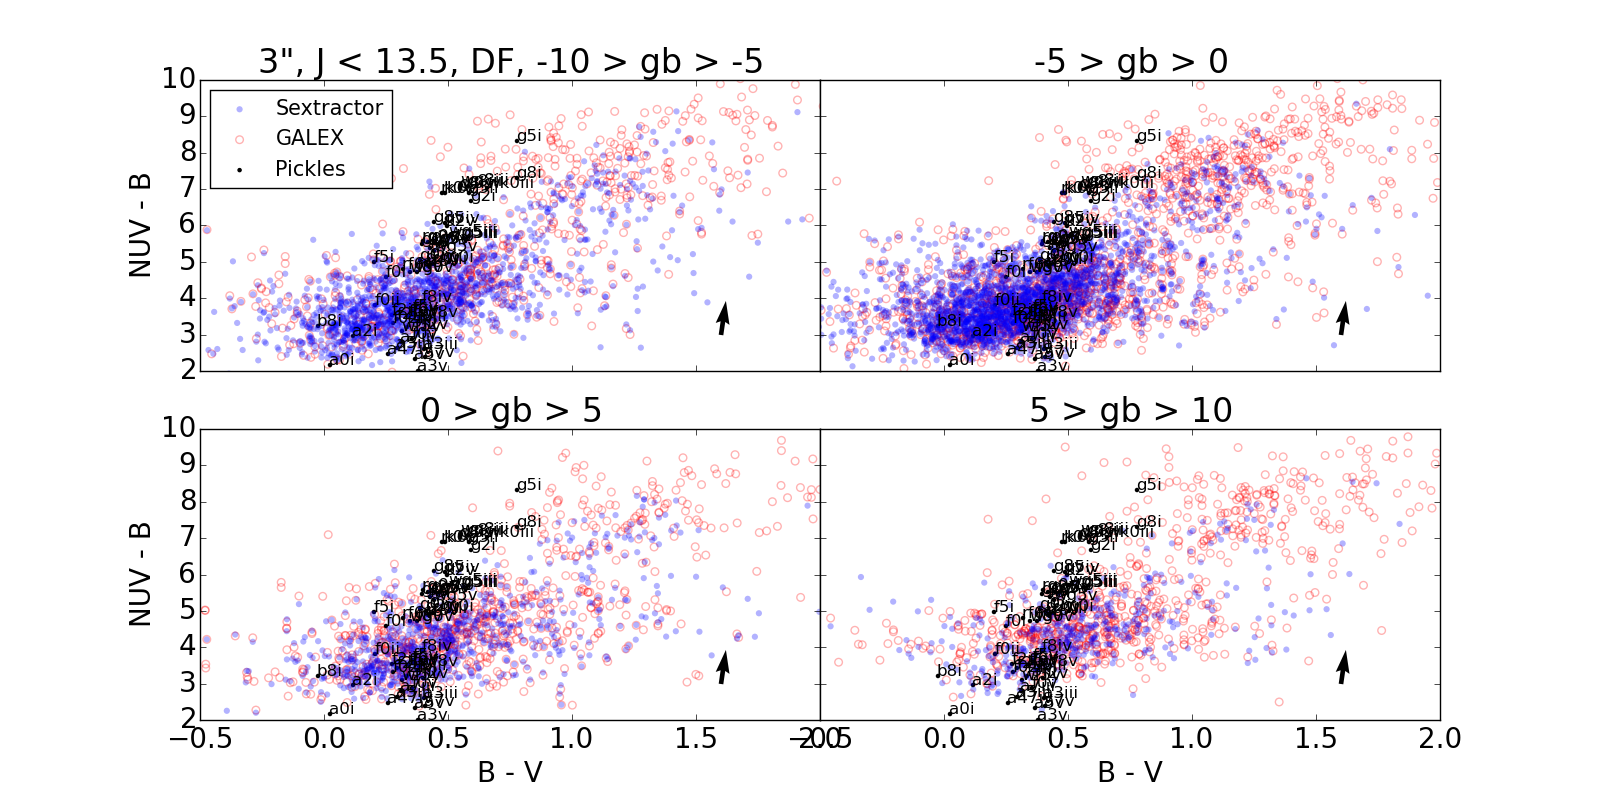
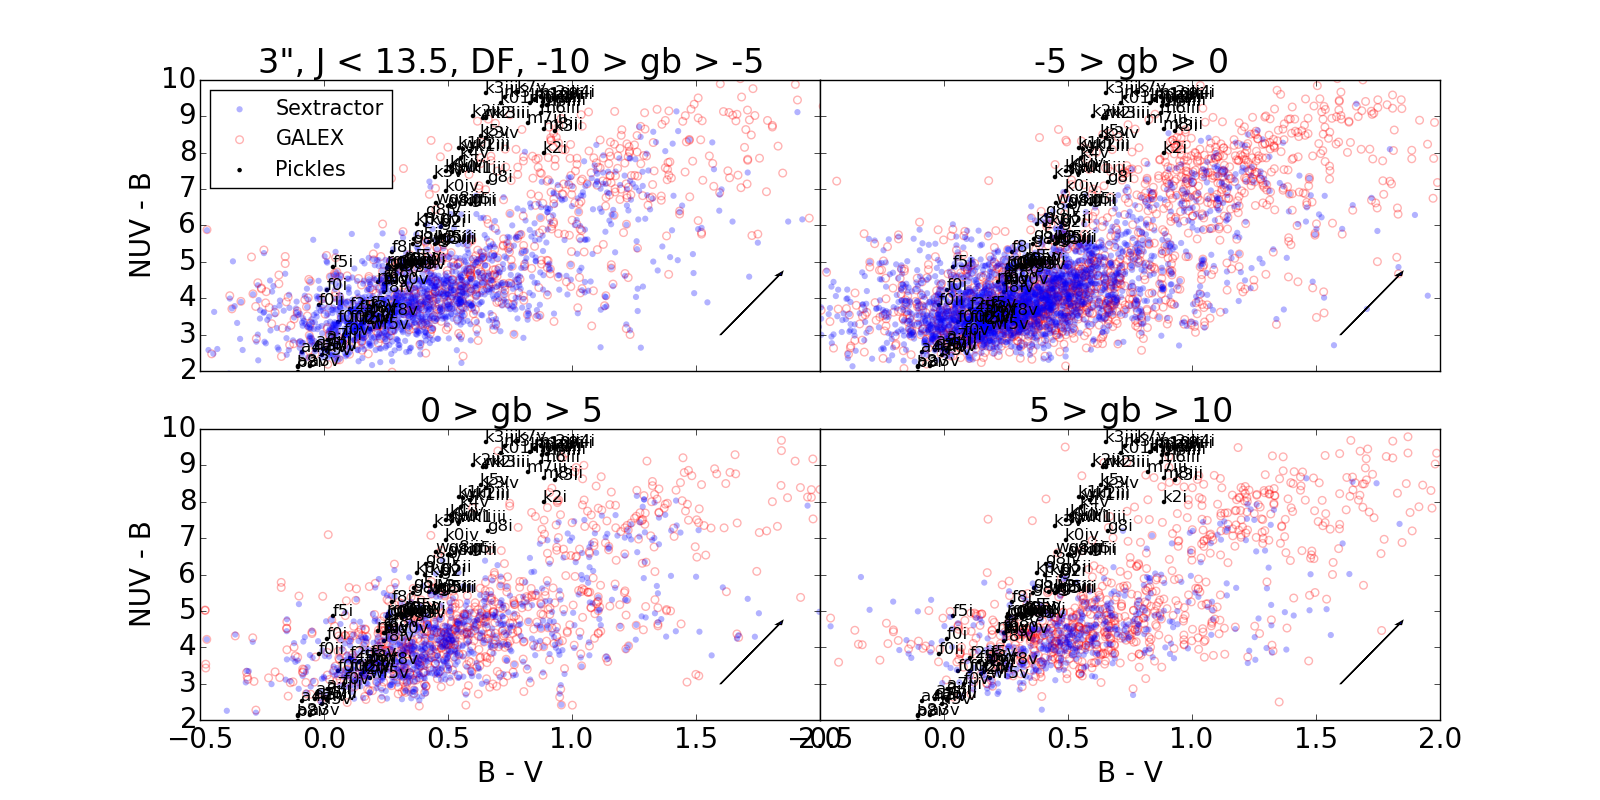
Fixed PICKLES SED points

diff --git a/pipeline/ccplot.py b/pipeline/ccplot.py
@@ -1,9 +1,16 @@
+import numpy as np
+from astropy.table import Table
+from matplotlib import pyplot as plt
+import matplotlib
+matplotlib.rcParams['figure.figsize'] = 16, 8
+matplotlib.rcParams['font.size'] = 20
+
 nuvjvsjk = 0
 nuvbvsbv = 1
 
-star = Table.read('newfield_2mass_t2_jlim_13.5_3arcsec.txt',format='ascii')
+star = Table.read('newfield_2mass_t2_jlim_13.5_3arcsec.txt', format='ascii')
 newt = Table.read('galex0data_2mass_t2.txt', format='ascii')
-pickles = Table.read('picklemags.txt', format='ascii')
+pickles = Table.read('picklemags_laphare.txt', format='ascii')
 
 star['nuv'] = star['nuv'] - 0.5
 
@@ -19,15 +26,15 @@ ncut4 = np.where((newt['gb_galex'] > 5) & (newt['gb_galex'] < 10))
 
 # Open Figure
 f, ((ax1, ax2), (ax3, ax4)) = plt.subplots(2, 2, sharex='col', sharey='row')
-plt.rc('legend',**{'fontsize':15})
+plt.rc('legend', **{'fontsize': 15})
 
 # GALEX, Pickles, SExtractor order
-nuv = ['nuv_mag','nuv','nuv',2.9720]
-b = ['BJmag','b','BJmag',1.3429]
-v = ['VJmag','v','VJmag',1.1080]
-j = ['j','j','j',0.2876]
-h = ['h','h','h',0.1783]
-k = ['k','k','k',0.1170]
+nuv = ['nuv_mag', 'nuv', 'nuv', 2.9720]
+b = ['BJmag', 'b', 'BJmag', 1.3429]
+v = ['VJmag', 'v', 'VJmag', 1.1080]
+j = ['j', 'j', 'j', 0.2876]
+h = ['h', 'h', 'h', 0.1783]
+k = ['k', 'k', 'k', 0.1170]
 
 
 if nuvjvsjk == 1:
@@ -35,8 +42,10 @@ if nuvjvsjk == 1:
     x2 = k
     y1 = nuv
     y2 = j
-    extx = -0.1
-    exty = 7
+    #extx = -0.1
+    #exty = 7
+    extx = 0.08
+    exty = 3.5
     extdx = x1[3] - x2[3]
     extdy = y1[3] - y2[3]
 if nuvbvsbv == 1:
@@ -44,38 +53,41 @@ if nuvbvsbv == 1:
     x2 = v
     y1 = nuv
     y2 = b
-    extx = 1.6
-    exty = 3
+    #extx = 1.6
+    #exty = 3
+    extx = 0.2
+    exty = 3.4
     extdx = x1[3] - x2[3]
     extdy = y1[3] - y2[3]
 
-
+'''
 # GALEX data
-a2 = ax1.scatter(newt[x1[0]][ncut]-newt[x2[0]][ncut],newt[y1[0]][ncut]-newt[y2[0]][ncut],facecolor='none',edgecolor='red',s=30,alpha=0.3)
-b2 = ax2.scatter(newt[x1[0]][ncut2]-newt[x2[0]][ncut2],newt[y1[0]][ncut2]-newt[y2[0]][ncut2],facecolor='none',edgecolor='red',s=30,alpha=0.3)
-c2 = ax3.scatter(newt[x1[0]][ncut3]-newt[x2[0]][ncut3],newt[y1[0]][ncut3]-newt[y2[0]][ncut3],facecolor='none',edgecolor='red',s=30,alpha=0.3)
-d2 = ax4.scatter(newt[x1[0]][ncut4]-newt[x2[0]][ncut4],newt[y1[0]][ncut4]-newt[y2[0]][ncut4],facecolor='none',edgecolor='red',s=30,alpha=0.3)
+a2 = ax1.scatter(newt[x1[0]][ncut]-newt[x2[0]][ncut], newt[y1[0]][ncut]-newt[y2[0]][ncut], facecolor='none', edgecolor='red', s=30, alpha=0.3)
+b2 = ax2.scatter(newt[x1[0]][ncut2]-newt[x2[0]][ncut2], newt[y1[0]][ncut2]-newt[y2[0]][ncut2], facecolor='none', edgecolor='red', s=30, alpha=0.3)
+c2 = ax3.scatter(newt[x1[0]][ncut3]-newt[x2[0]][ncut3], newt[y1[0]][ncut3]-newt[y2[0]][ncut3], facecolor='none', edgecolor='red', s=30, alpha=0.3)
+d2 = ax4.scatter(newt[x1[0]][ncut4]-newt[x2[0]][ncut4], newt[y1[0]][ncut4]-newt[y2[0]][ncut4], facecolor='none', edgecolor='red', s=30, alpha=0.3)
 #Pickles
-a3 = ax1.scatter(pickles[x1[1]]-pickles[x2[1]],pickles[y1[1]]-pickles[y2[1]],c='black',s=5)
-b3 = ax2.scatter(pickles[x1[1]]-pickles[x2[1]],pickles[y1[1]]-pickles[y2[1]],c='black',s=5)
-c3 = ax3.scatter(pickles[x1[1]]-pickles[x2[1]],pickles[y1[1]]-pickles[y2[1]],c='black',s=5)
-d3 = ax4.scatter(pickles[x1[1]]-pickles[x2[1]],pickles[y1[1]]-pickles[y2[1]],c='black',s=5)
+a3 = ax1.scatter(pickles[x1[1]]-pickles[x2[1]], pickles[y1[1]]-pickles[y2[1]], c='black', s=5)
+b3 = ax2.scatter(pickles[x1[1]]-pickles[x2[1]], pickles[y1[1]]-pickles[y2[1]], c='black', s=5)
+c3 = ax3.scatter(pickles[x1[1]]-pickles[x2[1]], pickles[y1[1]]-pickles[y2[1]], c='black', s=5)
+d3 = ax4.scatter(pickles[x1[1]]-pickles[x2[1]], pickles[y1[1]]-pickles[y2[1]], c='black', s=5)
 for j in range(len(pickles)):
-    ax1.annotate(pickles['name'][j][:-4],xy=(pickles[x1[1]][j]-pickles[x2[1]][j],pickles[y1[1]][j]-pickles[y2[1]][j]),size=12)
-    ax2.annotate(pickles['name'][j][:-4],xy=(pickles[x1[1]][j]-pickles[x2[1]][j],pickles[y1[1]][j]-pickles[y2[1]][j]),size=12)
-    ax3.annotate(pickles['name'][j][:-4],xy=(pickles[x1[1]][j]-pickles[x2[1]][j],pickles[y1[1]][j]-pickles[y2[1]][j]),size=12)
-    ax4.annotate(pickles['name'][j][:-4],xy=(pickles[x1[1]][j]-pickles[x2[1]][j],pickles[y1[1]][j]-pickles[y2[1]][j]),size=12) 
+    ax1.annotate(pickles['name'][j], xy=(pickles[x1[1]][j]-pickles[x2[1]][j], pickles[y1[1]][j]-pickles[y2[1]][j]), size=12)
+    ax2.annotate(pickles['name'][j], xy=(pickles[x1[1]][j]-pickles[x2[1]][j], pickles[y1[1]][j]-pickles[y2[1]][j]), size=12)
+    ax3.annotate(pickles['name'][j], xy=(pickles[x1[1]][j]-pickles[x2[1]][j], pickles[y1[1]][j]-pickles[y2[1]][j]), size=12)
+    ax4.annotate(pickles['name'][j], xy=(pickles[x1[1]][j]-pickles[x2[1]][j], pickles[y1[1]][j]-pickles[y2[1]][j]), size=12)
+'''
 # SExtractor
-a1 = ax1.scatter(star[x1[2]][scut]-star[x2[2]][scut],star[y1[2]][scut]-star[y2[2]][scut],edgecolor='none',alpha=0.3)
-b1 = ax2.scatter(star[x1[2]][scut2]-star[x2[2]][scut2],star[y1[2]][scut2]-star[y2[2]][scut2],edgecolor='none',alpha=0.3)
-c1 = ax3.scatter(star[x1[2]][scut3]-star[x2[2]][scut3],star[y1[2]][scut3]-star[y2[2]][scut3],edgecolor='none',alpha=0.3)
-d1 = ax4.scatter(star[x1[2]][scut4]-star[x2[2]][scut4],star[y1[2]][scut4]-star[y2[2]][scut4],edgecolor='none',alpha=0.3)
+a1 = ax1.scatter(star[x1[2]][scut]-star[x2[2]][scut], star[y1[2]][scut]-star[y2[2]][scut], edgecolor='none', alpha=0.3)
+b1 = ax2.scatter(star[x1[2]][scut2]-star[x2[2]][scut2], star[y1[2]][scut2]-star[y2[2]][scut2], edgecolor='none', alpha=0.3)
+c1 = ax3.scatter(star[x1[2]][scut3]-star[x2[2]][scut3], star[y1[2]][scut3]-star[y2[2]][scut3], edgecolor='none', alpha=0.3)
+d1 = ax4.scatter(star[x1[2]][scut4]-star[x2[2]][scut4], star[y1[2]][scut4]-star[y2[2]][scut4], edgecolor='none', alpha=0.3)
 
 # Add Extinction vector
-ax1.quiver(extx, exty, extdx, extdy)
-ax2.quiver(extx, exty, extdx, extdy)
-ax3.quiver(extx, exty, extdx, extdy)
-ax4.quiver(extx, exty, extdx, extdy)
+ax1.arrow(extx, exty, extdx, extdy, head_length=0.1,color='red')
+ax2.arrow(extx, exty, extdx, extdy, head_length=0.1,color='red')
+ax3.arrow(extx, exty, extdx, extdy, head_length=0.1,color='red')
+ax4.arrow(extx, exty, extdx, extdy, head_length=0.1,color='red')
 
 # Set all labels
 ax1.set_title('3", J < 13.5, DF, -10 > gb > -5')
@@ -84,35 +96,40 @@ ax3.set_title('0 > gb > 5')
 ax4.set_title('5 > gb > 10')
 
 if nuvjvsjk == 1:
-    ax1.set_xlim((-0.25,1.25))
-    ax1.set_ylim((2,14))
-    ax2.set_xlim((-0.25,1.25))
-    ax2.set_ylim((2,14))
-    ax3.set_xlim((-0.25,1.25))
-    ax3.set_ylim((2,14))
-    ax4.set_xlim((-0.25,1.25))
-    ax4.set_ylim((2,14))
+    ax1.set_xlim((-0.25, 1.25))
+    ax1.set_ylim((2, 14))
+    ax2.set_xlim((-0.25, 1.25))
+    ax2.set_ylim((2, 14))
+    ax3.set_xlim((-0.25, 1.25))
+    ax3.set_ylim((2, 14))
+    ax4.set_xlim((-0.25, 1.25))
+    ax4.set_ylim((2, 14))
     ax1.set_ylabel('NUV - J')
     ax3.set_xlabel('J - K')
     ax3.set_ylabel('NUV - J')
     ax4.set_xlabel('J - K')
 
 if nuvbvsbv == 1:
-    ax1.set_xlim((-0.5,2))
-    ax1.set_ylim((2,10))
-    ax2.set_xlim((-0.5,2))
-    ax2.set_ylim((2,10))
-    ax3.set_xlim((-0.5,2))
-    ax3.set_ylim((2,10))
-    ax4.set_xlim((-0.5,2))
-    ax4.set_ylim((2,10))
+    ax1.set_xlim((-0.5, 2))
+    ax1.set_ylim((2, 10))
+    ax2.set_xlim((-0.5, 2))
+    ax2.set_ylim((2, 10))
+    ax3.set_xlim((-0.5, 2))
+    ax3.set_ylim((2, 10))
+    ax4.set_xlim((-0.5, 2))
+    ax4.set_ylim((2, 10))
     ax1.set_ylabel('NUV - B')
     ax3.set_xlabel('B - V')
     ax3.set_ylabel('NUV - B')
     ax4.set_xlabel('B - V')
 
-ax1.legend([a1,a2,a3],['Sextractor','GALEX','Pickles'],scatterpoints=1,loc=2)
+'''
+if nuvjvsjk == 1:
+    ax1.legend([a1, a2, a3], ['Sextractor', 'GALEX', 'Pickles'], scatterpoints=1, loc=4)
 
+if nuvbvsbv == 1:
+    ax1.legend([a1, a2, a3], ['Sextractor', 'GALEX', 'Pickles'], scatterpoints=1, loc=2)
+'''
 # Reference line
 if nuvjvsjk == 1:
     ax1.axhline(y=4)

diff --git a/pipeline/pickleconv.py b/pipeline/pickleconv.py
@@ -2,27 +2,110 @@ from astropy.io import ascii
 import numpy as np
 from astropy.table import Table
 
-pbands = Table.read('../picklesbands.txt', format='ascii')
-name = pbands['name']
-
-
 ##########################################################################
 # Add LePHARE fix
 ##########################################################################
-
 #to do:
 # 1. Figure out range for each band
 # 2. Make array for that range and pull data from Pickles
 # 3. Compute: (Sum PICKLE_lambda * LePHARE_lambda) / sum(LePHARE_lambda)
 # 4. Make table
 
-name,nuv,b,v,j,h,k = [],[],[],[],[],[],[]
+# Open LePHARE files
+directory = '../PICKLES/filt/'
+nuvfilt = Table.read(directory+'galex/NUV.pb', format='ascii')
+bfilt = Table.read(directory+'wfi/B.pb', format='ascii', data_start=1)
+vfilt = Table.read(directory+'wfi/V.pb', format='ascii', data_start=1)
+jfilt = Table.read(directory+'2mass/J.pb', format='ascii', data_start=1)
+hfilt = Table.read(directory+'2mass/H.pb', format='ascii', data_start=1)
+kfilt = Table.read(directory+'2mass/Ks.pb', format='ascii', data_start=1)
+
+
+# Get correct indices
+test = Table.read('../PICKLES/a0i.sed', format='ascii')
+nuv_starind, nuv_filtind = [], []
+b_starind, b_filtind = [], []
+v_starind, v_filtind = [], []
+j_starind, j_filtind = [], []
+h_starind, h_filtind = [], []
+k_starind, k_filtind = [], []
+inda, indn = [], []
+
+for i in range(len(test)):
+    for j in range(len(nuvfilt)):
+        if test['col1'][i] == nuvfilt['col1'][j]:
+            nuv_starind.append(i)
+            nuv_filtind.append(j)
+
+    for j in range(len(bfilt)):
+        if test['col1'][i] == bfilt['col1'][j]:
+            b_starind.append(i)
+            b_filtind.append(j)
+
+    for j in range(len(vfilt)):
+        if test['col1'][i] == vfilt['col1'][j]:
+            v_starind.append(i)
+            v_filtind.append(j)
+
+    for j in range(len(jfilt)):
+        if test['col1'][i] == jfilt['col1'][j]:
+            j_starind.append(i)
+            j_filtind.append(j)
+
+    for j in range(len(hfilt)):
+        if test['col1'][i] == hfilt['col1'][j]:
+            h_starind.append(i)
+            h_filtind.append(j)
+
+    for j in range(len(kfilt)):
+        if test['col1'][i] == kfilt['col1'][j]:
+            k_starind.append(i)
+            k_filtind.append(j)
+
+nuvfilt = nuvfilt[nuv_filtind]
+bfilt = bfilt[b_filtind]
+vfilt = vfilt[v_filtind]
+jfilt = jfilt[j_filtind]
+hfilt = hfilt[h_filtind]
+kfilt = kfilt[k_filtind]
+
+# Compute sums for denominator
+nuvfiltsum = np.sum(nuvfilt['col2'])
+bfiltsum = np.sum(bfilt['col2'])
+vfiltsum = np.sum(vfilt['col2'])
+jfiltsum = np.sum(jfilt['col2'])
+hfiltsum = np.sum(hfilt['col2'])
+kfiltsum = np.sum(kfilt['col2'])
+
+
+# Now compute numerator
+name, nuv, b, v, j, h, k = [], [], [], [], [], [], []
 picklefiles = np.loadtxt('../PICKLES/pickles.txt', dtype='string')
 
-
-'''
 for i in picklefiles:
-    a = Table.read('../PICKLES/'+i,format='ascii')
+    table = Table.read('../PICKLES/'+i, format='ascii')
+    name.append(i[:-4])
+    nuv.append(np.sum(table['col2'][nuv_starind] * nuvfilt['col2']))
+    b.append(np.sum(table['col2'][b_starind] * bfilt['col2']))
+    v.append(np.sum(table['col2'][v_starind] * vfilt['col2']))
+    j.append(np.sum(table['col2'][j_starind] * jfilt['col2']))
+    h.append(np.sum(table['col2'][h_starind] * hfilt['col2']))
+    k.append(np.sum(table['col2'][k_starind] * kfilt['col2']))
+
+# Now compute f_lambda
+nuv = [x/nuvfiltsum for x in nuv]
+b = [x/bfiltsum for x in b]
+v = [x/vfiltsum for x in v]
+j = [x/jfiltsum for x in j]
+h = [x/hfiltsum for x in h]
+k = [x/kfiltsum for x in k]
+
+# Old way
+'''
+name,nuv,b,v,j,h,k = [],[],[],[],[],[],[]
+picklefiles = np.loadtxt('PICKLES/pickles.txt', dtype='string')
+for i in picklefiles:
+    a = Table.read('PICKLES/'+i,format='ascii')
     name.append(i)
     nuv.append(a['col2'][224])
     b.append(a['col2'][641])
@@ -32,9 +115,7 @@ for i in picklefiles:
     k.append(a['col2'][4089])
 '''
 
-
-
-
+pbands = Table([nuv, b, v, j, k, k], names=('nuv', 'b', 'v', 'j', 'h', 'k'))
 
 ##########################################################################
 # convert f_lambda to f_v, divide by 0 point, then conv to Jy. 1 Jy = 10^-23 erg/s/Hz/cm^2
@@ -43,7 +124,6 @@ for i in picklefiles:
 #nuv = -2.5*np.log10((((pbands['nuv']-(2.22*10**-8))*3.34*10**4*(2300)**2))*10**-23)-48.6
 
 # Wavelengths in A
-
 #nuv = -2.5*np.log10(((pbands['nuv'] * 3.34*10**4 * (2300)**2)) * 10**-23) - 48.6
 #b = -2.5*np.log10(pbands['b'] * 3.34*10**4 * (4350)**2 * 10**-23) - 48.6
 #v = -2.5*np.log10(pbands['v'] * 3.34*10**4 * (5050)**2 * 10**-23) - 48.6
@@ -62,4 +142,4 @@ k = -2.5*np.log10(((pbands['k']*3.34*10**4 * (21590)**2))) + 7.060
 
 
 data = [name, nuv, b, v, j, h, k]
-ascii.write(data, 'picklemags.txt', names=['name', 'nuv', 'b', 'v', 'j', 'h', 'k'])
+ascii.write(data, '../picklemags_laphare.txt', names=['name', 'nuv', 'b', 'v', 'j', 'h', 'k'])
